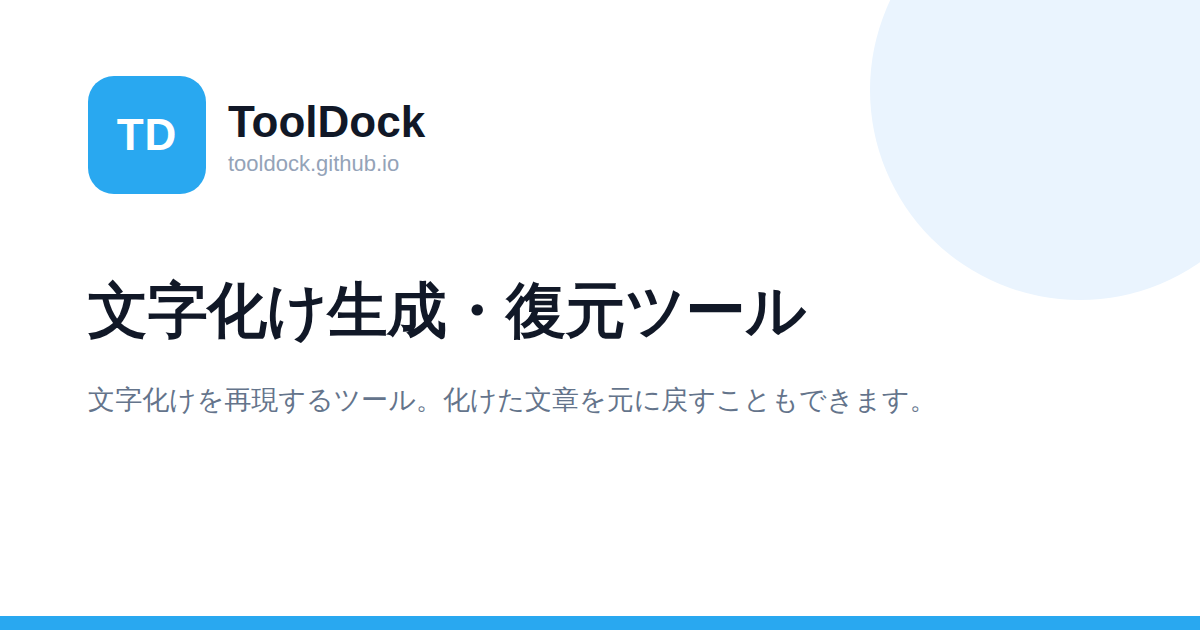
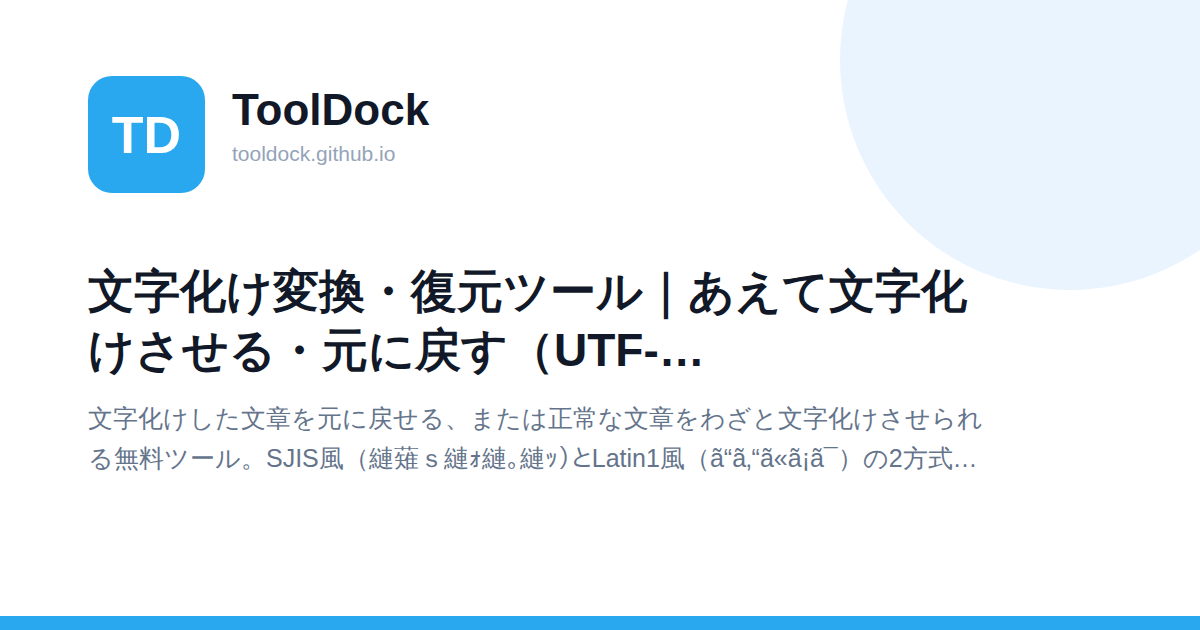
米国株ツールを改名し、文字化けツールのSEO訴求を見直し
米国株: 「昨日の米国株」を「米国株ダッシュボード」に改名し、
title・meta description・OGP画像で、S&P500・NASDAQ100など
競合の多い指標名より、ヒートマップ・円建てS&P500・VIX・
Fear & Greed Indexなど差別化要素を前面に出すよう変更。
自動更新ワークフローのテンプレート（market/web/index.html）と
現在の公開ページ（us-market/index.html）の両方を直す。

文字化け: 検索クエリを見ると「文字化け風」「文字化け 作り方」など
あえて文字化けさせたい人の検索が一定数あるのに、titleが「元に戻す」
（復元）側にしか触れていなかった。生成側も並べて訴求するよう変更。

Claude-Session: https://claude.ai/code/session_01SKh1jhAp32CEmbZCaaEmgk

Changed region(s): [[0.0617, 0.4222, 0.8325, 0.754], [0.185, 0.1508, 0.37, 0.2714], [0.0925, 0.181, 0.1542, 0.2413]]

diff --git a/js/tool-data.js b/js/tool-data.js
@@ -51,10 +51,10 @@ window.TOOLS = [
 
   {
     id: "us-market",
-    title: "昨日の米国株",
-    desc: "S&P500・ドル円・VIXなど、昨夜引けた米国市場を一面にまとめたダッシュボード。",
-    seoTitle: "昨日の米国株｜S&P500・NASDAQ100・ドル円チャート（1日〜5年）",
-    seoDesc: "昨夜引けた米国市場を一面にまとめた無料ダッシュボード。S&P500・NASDAQ100・NYSE FANG+・ドル円・ゴールド・米国債10年・BTC・SOX指数のチャートを、1日・1ヶ月・年初来・1年・5年で切り替えて見られます。円建てS&P500の年初来と年初来ドローダウン、Fear & Greed Index、VIX、主要銘柄のヒートマップも。平日の朝に自動更新されます。",
+    title: "米国株ダッシュボード",
+    desc: "主要銘柄のヒートマップ、円建てS&P500、VIX、Fear & Greed Indexなど、昨夜引けた米国市場を一面にまとめたダッシュボード。",
+    seoTitle: "米国株ダッシュボード｜ヒートマップ・円建てS&P500・VIX・Fear & Greed Index",
+    seoDesc: "S&P500・NASDAQ100・ドル円など米国市場の主要指標を一面にまとめた無料ダッシュボード。主要銘柄のヒートマップ、円建てS&P500の年初来とドローダウン、VIX、Fear & Greed Indexも一緒に確認できます。1日・1ヶ月・年初来・1年・5年でチャートを切り替え可能。平日の朝に自動更新されます。",
     category: "finance",
     url: "/us-market/"
   },
@@ -165,8 +165,8 @@ window.TOOLS = [
     id: "mojibake",
     title: "文字化け生成・復元ツール",
     desc: "文字化けを再現するツール。化けた文章を元に戻すこともできます。",
-    seoTitle: "文字化け変換・復元ツール｜UTF-8・SJIS・Latin1の化けた文字を元に戻す",
-    seoDesc: "文字化けした文章を元に戻せる無料ツール。SJIS風（縺薙ｓ縺ｫ縺｡縺ｯ）とLatin1風（ã“ã‚“ã«ã¡ã¯）の2方式に対応し、化け方から見分ける方法も掲載。逆に、正常な文章を文字化けさせることもできます。すべてブラウザ内で処理され送信されません。",
+    seoTitle: "文字化け変換・復元ツール｜あえて文字化けさせる・元に戻す（UTF-8/SJIS/Latin1）",
+    seoDesc: "文字化けした文章を元に戻せる、または正常な文章をわざと文字化けさせられる無料ツール。SJIS風（縺薙ｓ縺ｫ縺｡縺ｯ）とLatin1風（ã“ã‚“ã«ã¡ã¯）の2方式に対応し、化け方から見分ける方法も掲載。すべてブラウザ内で処理され送信されません。",
     popularity: 18,
     category: "life",
     url: "/mojibake/"

diff --git a/market/web/index.html b/market/web/index.html
@@ -6,8 +6,8 @@
 
 <!-- title / description / canonical は静的に置く。
      head.js は「既に無ければ補う」作りなので、必ずこの順で -->
-<title>昨日の米国株｜S&P500・NASDAQ100・ドル円チャート（1日〜5年）</title>
-<meta name="description" content="昨夜引けた米国市場を一面にまとめた無料ダッシュボード。S&P500・NASDAQ100・NYSE FANG+・ドル円・ゴールド・米国債10年・BTC・SOX指数のチャートを、1日・1ヶ月・年初来・1年・5年で切り替えて見られます。円建てS&P500の年初来と年初来ドローダウン、Fear &amp; Greed Index、VIX、主要銘柄のヒートマップも。平日の朝に自動更新されます。">
+<title>米国株ダッシュボード｜ヒートマップ・円建てS&P500・VIX・Fear & Greed Index</title>
+<meta name="description" content="S&P500・NASDAQ100・ドル円など米国市場の主要指標を一面にまとめた無料ダッシュボード。主要銘柄のヒートマップ、円建てS&P500の年初来とドローダウン、VIX、Fear &amp; Greed Indexも一緒に確認できます。1日・1ヶ月・年初来・1年・5年でチャートを切り替え可能。平日の朝に自動更新されます。">
 <link rel="canonical" href="https://tooldock.github.io/us-market/">
 
 <script> const CURRENT_TOOL = "us-market"; </script>
@@ -34,7 +34,7 @@
   <header class="board__header">
     <!-- 見出しはページ自身のもの。market.json から流し込むと、
          データの更新が回るまで古い見出しが出てしまう -->
-    <h1 class="board__title">昨日の米国株</h1>
+    <h1 class="board__title">米国株ダッシュボード</h1>
     <p class="board__session" hidden><time data-bind="session_text"></time>（米国時間）の終値</p>
     <p class="board__updated">最終更新 <time data-bind="generated_at_text"></time><span class="board__cycle">米国市場が開いた日の翌朝8時ごろに更新しています</span></p>
   </header>

diff --git a/us-market/index.html b/us-market/index.html
@@ -6,8 +6,8 @@
 
 <!-- title / description / canonical は静的に置く。
      head.js は「既に無ければ補う」作りなので、必ずこの順で -->
-<title>昨日の米国株｜S&P500・NASDAQ100・ドル円チャート（1日〜5年）</title>
-<meta name="description" content="昨夜引けた米国市場を一面にまとめた無料ダッシュボード。S&P500・NASDAQ100・NYSE FANG+・ドル円・ゴールド・米国債10年・BTC・SOX指数のチャートを、1日・1ヶ月・年初来・1年・5年で切り替えて見られます。円建てS&P500の年初来と年初来ドローダウン、Fear &amp; Greed Index、VIX、主要銘柄のヒートマップも。平日の朝に自動更新されます。">
+<title>米国株ダッシュボード｜ヒートマップ・円建てS&P500・VIX・Fear & Greed Index</title>
+<meta name="description" content="S&P500・NASDAQ100・ドル円など米国市場の主要指標を一面にまとめた無料ダッシュボード。主要銘柄のヒートマップ、円建てS&P500の年初来とドローダウン、VIX、Fear &amp; Greed Indexも一緒に確認できます。1日・1ヶ月・年初来・1年・5年でチャートを切り替え可能。平日の朝に自動更新されます。">
 <link rel="canonical" href="https://tooldock.github.io/us-market/">
 
 <script> const CURRENT_TOOL = "us-market"; </script>
@@ -34,7 +34,7 @@
   <header class="board__header">
     <!-- 見出しはページ自身のもの。market.json から流し込むと、
          データの更新が回るまで古い見出しが出てしまう -->
-    <h1 class="board__title">昨日の米国株</h1>
+    <h1 class="board__title">米国株ダッシュボード</h1>
     <p class="board__session" hidden><time data-bind="session_text"></time>（米国時間）の終値</p>
     <p class="board__updated">最終更新 <time data-bind="generated_at_text"></time><span class="board__cycle">米国市場が開いた日の翌朝8時ごろに更新しています</span></p>
   </header>

diff --git a/mojibake/index.html b/mojibake/index.html
@@ -5,8 +5,8 @@
   <meta charset="UTF-8">
   <meta name="viewport" content="width=device-width, initial-scale=1.0">
 
-  <title>文字化け変換・復元ツール｜UTF-8・SJIS・Latin1の化けた文字を元に戻す</title>
-  <meta name="description" content="文字化けした文章を元に戻せる無料ツール。SJIS風（縺薙ｓ縺ｫ縺｡縺ｯ）とLatin1風（ã“ã‚“ã«ã¡ã¯）の2方式に対応し、化け方から見分ける方法も掲載。逆に、正常な文章を文字化けさせることもできます。すべてブラウザ内で処理され送信されません。">
+  <title>文字化け変換・復元ツール｜あえて文字化けさせる・元に戻す（UTF-8/SJIS/Latin1）</title>
+  <meta name="description" content="文字化けした文章を元に戻せる、または正常な文章をわざと文字化けさせられる無料ツール。SJIS風（縺薙ｓ縺ｫ縺｡縺ｯ）とLatin1風（ã“ã‚“ã«ã¡ã¯）の2方式に対応し、化け方から見分ける方法も掲載。すべてブラウザ内で処理され送信されません。">
   <link rel="canonical" href="https://tooldock.github.io/mojibake/">
 
   <script>

diff --git a/index.html b/index.html
@@ -145,7 +145,7 @@ ToolDockは、ブラウザだけで使える無料のWebツールを集めたサ
   </ul>
   <h2>金融</h2>
   <ul>
-    <li><a href="/us-market/">昨日の米国株</a></li>
+    <li><a href="/us-market/">米国株ダッシュボード</a></li>
     <li><a href="/fukuri/">複利計算・積立シミュレーター</a></li>
     <li><a href="/torikuzushi/">取り崩しシミュレーター</a></li>
     <li><a href="/ikkatsu/">一括投資と積立投資の比較</a></li>
